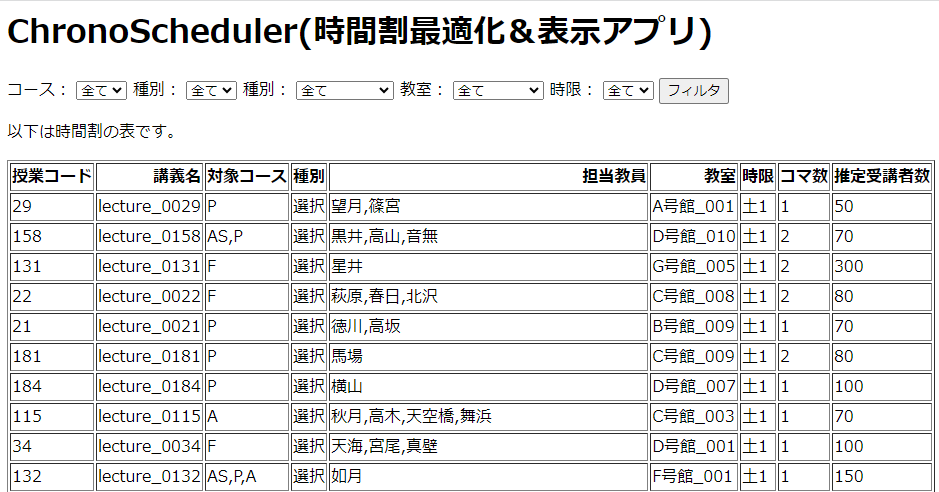
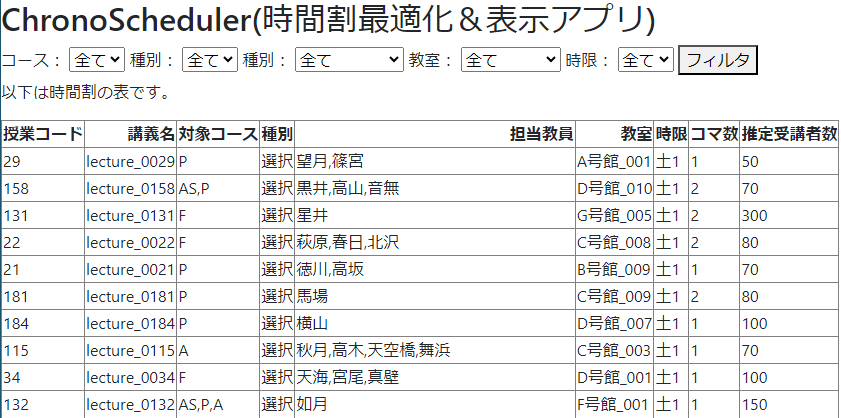
[add] common structure [layout.html]

diff --git a/api/templates/result.html b/api/templates/result.html
@@ -1,58 +1,58 @@
-<html>
-  <head>
-    <title>ChronoScheduler</title>
-  </head>
+<!-- 継承 -->
+{% extends "layout.html" %}
 
-  <body>
-    <h1>ChronoScheduler(時間割最適化＆表示アプリ)</h1>
+<!-- ヘッダー -->
+{% block head %}
+<title>ChronoScheduler</title>
+{% endblock %}
 
-    <form method="get" action="/timetable">
-        <label for="course">コース：</label>
-        <select name="course" id="course">
-          <option value="">全て</option>
-          {% for course in courses %}
-          <option value="{{course}}">{{course}}</option>
-          {% endfor %}
-        </select>
-    
-    <form method="get" action="/timetable">
-      <label for="category">種別：</label>
-      <select name="category" id="category">
-        <option value="">全て</option>
-        {% for category in categories %}
-        <option value="{{category}}">{{category}}</option>
-        {% endfor %}
-      </select>
+<!-- 内容 -->
+{% block content %}
+<h2>ChronoScheduler(時間割最適化＆表示アプリ)</h2>
 
-      <form method="get" action="/timetable">
-        <label for="teacher">種別：</label>
-        <select name="teacher" id="teacher">
-          <option value="">全て</option>
-          {% for teacher in teachers %}
-          <option value="{{teacher}}">{{teacher}}</option>
-          {% endfor %}
-        </select>
+<form method="get" action="/timetable">
+  <label for="course">コース：</label>
+  <select name="course" id="course">
+    <option value="">全て</option>
+    {% for course in courses %}
+    <option value="{{course}}">{{course}}</option>
+    {% endfor %}
+  </select>
 
-      <label for="room">教室：</label>
-      <select name="room" id="room">
-        <option value="">全て</option>
-        {% for room in rooms %}
-        <option value="{{room}}">{{room}}</option>
-        {% endfor %}
-      </select>
+  <label for="category">種別：</label>
+  <select name="category" id="category">
+    <option value="">全て</option>
+    {% for category in categories %}
+    <option value="{{category}}">{{category}}</option>
+    {% endfor %}
+  </select>
 
-      <label for="period">時限：</label>
-      <select name="period" id="period">
-        <option value="">全て</option>
-        {% for period in periods %}
-        <option value="{{period}}">{{period}}</option>
-        {% endfor %}
-      </select>
+  <label for="teacher">種別：</label>
+  <select name="teacher" id="teacher">
+    <option value="">全て</option>
+    {% for teacher in teachers %}
+    <option value="{{teacher}}">{{teacher}}</option>
+    {% endfor %}
+  </select>
 
-      <button type="submit">フィルタ</button>
-    </form>
+  <label for="room">教室：</label>
+  <select name="room" id="room">
+    <option value="">全て</option>
+    {% for room in rooms %}
+    <option value="{{room}}">{{room}}</option>
+    {% endfor %}
+  </select>
 
-    <p>以下は時間割の表です。</p>
-    {{df_html | safe}}
-  </body>
-</html>
+  <label for="period">時限：</label>
+  <select name="period" id="period">
+    <option value="">全て</option>
+    {% for period in periods %}
+    <option value="{{period}}">{{period}}</option>
+    {% endfor %}
+  </select>
+
+  <button type="submit">フィルタ</button>
+</form>
+
+<p>以下が作成された時間割です。</p>
+{{df_html | safe}} {% endblock %}

diff --git a/api/templates/layout.html b/api/templates/layout.html
@@ -1,0 +1,65 @@
+<!DOCTYPE html>
+<html lang="ja">
+  <head>
+    <meta charset="UTF-8" />
+    <meta http-equiv="X-UA-Compatible" content="IE=edge" />
+    <meta
+      name="viewport"
+      content="width=device-width, initial-scale=1.0, shrink-to-fit=no"
+    />
+    <meta name="apple-mobile-web-app-capable" content="yes" />
+    {% if title %}
+    <title>{{ title }}</title>
+    {% else %}
+    <title>Template</title>
+    {% endif %}
+
+    <!-- jQuery & Bootstrap4 -->
+    <script
+      src="https://code.jquery.com/jquery-3.4.1.min.js"
+      integrity="sha256-CSXorXvZcTkaix6Yvo6HppcZGetbYMGWSFlBw8HfCJo="
+      crossorigin="anonymous"
+    ></script>
+    <link
+      rel="stylesheet"
+      href="https://stackpath.bootstrapcdn.com/bootstrap/4.4.1/css/bootstrap.min.css"
+      integrity="sha384-Vkoo8x4CGsO3+Hhxv8T/Q5PaXtkKtu6ug5TOeNV6gBiFeWPGFN9MuhOf23Q9Ifjh"
+      crossorigin="anonymous"
+    />
+
+    <script
+      src="https://cdn.jsdelivr.net/npm/popper.js@1.16.0/dist/umd/popper.min.js"
+      integrity="sha384-Q6E9RHvbIyZFJoft+2mJbHaEWldlvI9IOYy5n3zV9zzTtmI3UksdQRVvoxMfooAo"
+      crossorigin="anonymous"
+    ></script>
+    <script
+      src="https://stackpath.bootstrapcdn.com/bootstrap/4.4.1/js/bootstrap.min.js"
+      integrity="sha384-wfSDF2E50Y2D1uUdj0O3uMBJnjuUD4Ih7YwaYd1iqfktj0Uod8GCExl3Og8ifwB6"
+      crossorigin="anonymous"
+    ></script>
+
+    <!-- jQuery UI -->
+    <script
+      src="https://code.jquery.com/ui/1.12.1/jquery-ui.min.js"
+      integrity="sha256-VazP97ZCwtekAsvgPBSUwPFKdrwD3unUfSGVYrahUqU="
+      crossorigin="anonymous"
+    ></script>
+    <link
+      rel="stylesheet"
+      type="text/css"
+      href="https://cdnjs.cloudflare.com/ajax/libs/jqueryui/1.12.1/themes/smoothness/jquery-ui.min.css"
+    />
+
+    <!-- CUSTOM STYLE -->
+    <!-- <link
+      rel="stylesheet"
+      type="text/css"
+      href="{{url_for('static', path='/layout.css')}}"
+    /> -->
+    {% block head %}{% endblock %}
+  </head>
+
+  <body>
+    {% block content %}{% endblock %}
+  </body>
+</html>

diff --git a/api/templates/index.html b/api/templates/index.html
@@ -1,20 +1,35 @@
-<html>
-  <head>
-    <title>ChronoScheduler</title>
-  </head>
+{% extends "layout.html" %}
 
-  <body>
-    <h1>ChronoScheduler(時間割最適化＆表示アプリ)</h1>
+<!-- ヘッダー -->
+{% block head %}
+<title>ChronoScheduler</title>
+<!-- <link
+  rel="stylesheet"
+  type="text/css"
+  href="{{ url_for('static', path='/subpage/test.css')  }}"
+/>
+<script
+  type="text/javascript"
+  src="{{ url_for('static', path='subpage/test.js') }}"
+></script> -->
+{% endblock %}
 
-    <form action="/solve" enctype="multipart/form-data" method="post">
-      <label for="lecture_properties">
-        授業データ(subject_properties.csv), 教室データ(rooms.csv),
-        時限データ(periods.csv)：
-      </label>
-      <input name="uploaded_files" type="file" multiple />
-      <input type="submit" />
-    </form>
+<!-- 内容 -->
+{% block content %}
+<h2>ChronoScheduler(時間割最適化＆表示アプリ)</h1>
 
-    {% if solution_html %} {{solution_html | safe}} {% endif %}
-  </body>
-</html>
+<form action="/solve" enctype="multipart/form-data" method="post">
+  <label for="lecture_properties">
+    授業データ(subject_properties.csv), 教室データ(rooms.csv),
+    時限データ(periods.csv)：
+  </label>
+  <input name="uploaded_files" type="file" multiple />
+  <input type="submit" />
+</form>
+
+<!-- 最適化結果があれば表示 -->
+{% if solution_html %}
+  {{solution_html | safe}}
+{% endif %}
+
+{% endblock %}

diff --git a/api/main.py b/api/main.py
@@ -30,25 +30,21 @@ async def index(request: Request, solution_html = None):
     }
     return templates.TemplateResponse('index.html', query_dict)
 
-# @app.post('/uploadfiles/')
-# async def create_upload_files(uploaded_files: list[UploadFile] = None):
-#     if not uploaded_files[0].filename:
-#         return {'message': 'No file sent.'}
-#     else:
-#         # アップロードされたファイルを保存
-#         save_dir = BASE_DIR.parent.joinpath('data', 'uploaded')
-#         save_dir.mkdir(parents=True, exist_ok=True)
-#         for uploaded_file in uploaded_files:
-#             with open(save_dir.joinpath(uploaded_file.filename), 'wb+') as f:
-#                 shutil.copyfileobj(uploaded_file.file, f)
-#         return {'filenames': [uploaded_file.filename for uploaded_file in uploaded_files]}
+@app.post('/', response_class=HTMLResponse)
+async def index(request: Request, solution_html = None):
+    """ メインページのエンドポイント. 何もファイルが選択されずに送信ボタンがクリックされた場合. """
+    query_dict = {
+        'request': request,
+        'solution_html': solution_html
+    }
+    return templates.TemplateResponse('index.html', query_dict)
 
 @app.post('/solve', response_class=HTMLResponse)
 async def solve(request: Request, uploaded_files: list[UploadFile] = None):
     """ メインページのエンドポイント. アップロードされたデータを保存し、数理最適化を行う. """
-    # データがアップロードされていなければトップページ
+    # データがアップロードされていなければトップページにリダイレクト
     if not uploaded_files[0].filename:
-        return templates.TemplateResponse('index.html', {'request': request})
+        return RedirectResponse(url='http://localhost:8000/')
     else:
         # アップロードされたファイルを保存
         save_dir = BASE_DIR.parent.joinpath('data', 'uploaded')
@@ -65,8 +61,8 @@ async def solve(request: Request, uploaded_files: list[UploadFile] = None):
         'solution_html': solution_html
         }
         
-        # TODO: index.htmlに最適化後の時間割を表示
-        # TODO: index.htmlに/timetableへのリンクを作成
+        # TODO: index.htmlに最適化後の時間割を表示(index.htmlに追記)
+        # TODO: index.htmlに/timetableへのリンクを作成(結果をフィルタリングボタンでリンクを追加)
         
         return templates.TemplateResponse('index.html', query_dict)
 

diff --git a/README.md b/README.md
@@ -100,8 +100,8 @@ You can see optimized Timetable and filter by properties:
 localhost: 8000/timetable
 ```
 
-> **Note**
-API Docs endpoint: `localhost:8000/docs`
+<!-- > **Note**
+API Docs endpoint: `localhost:8000/docs` -->
 
 ## 📝Note
 Only integer programming is supported yet...
